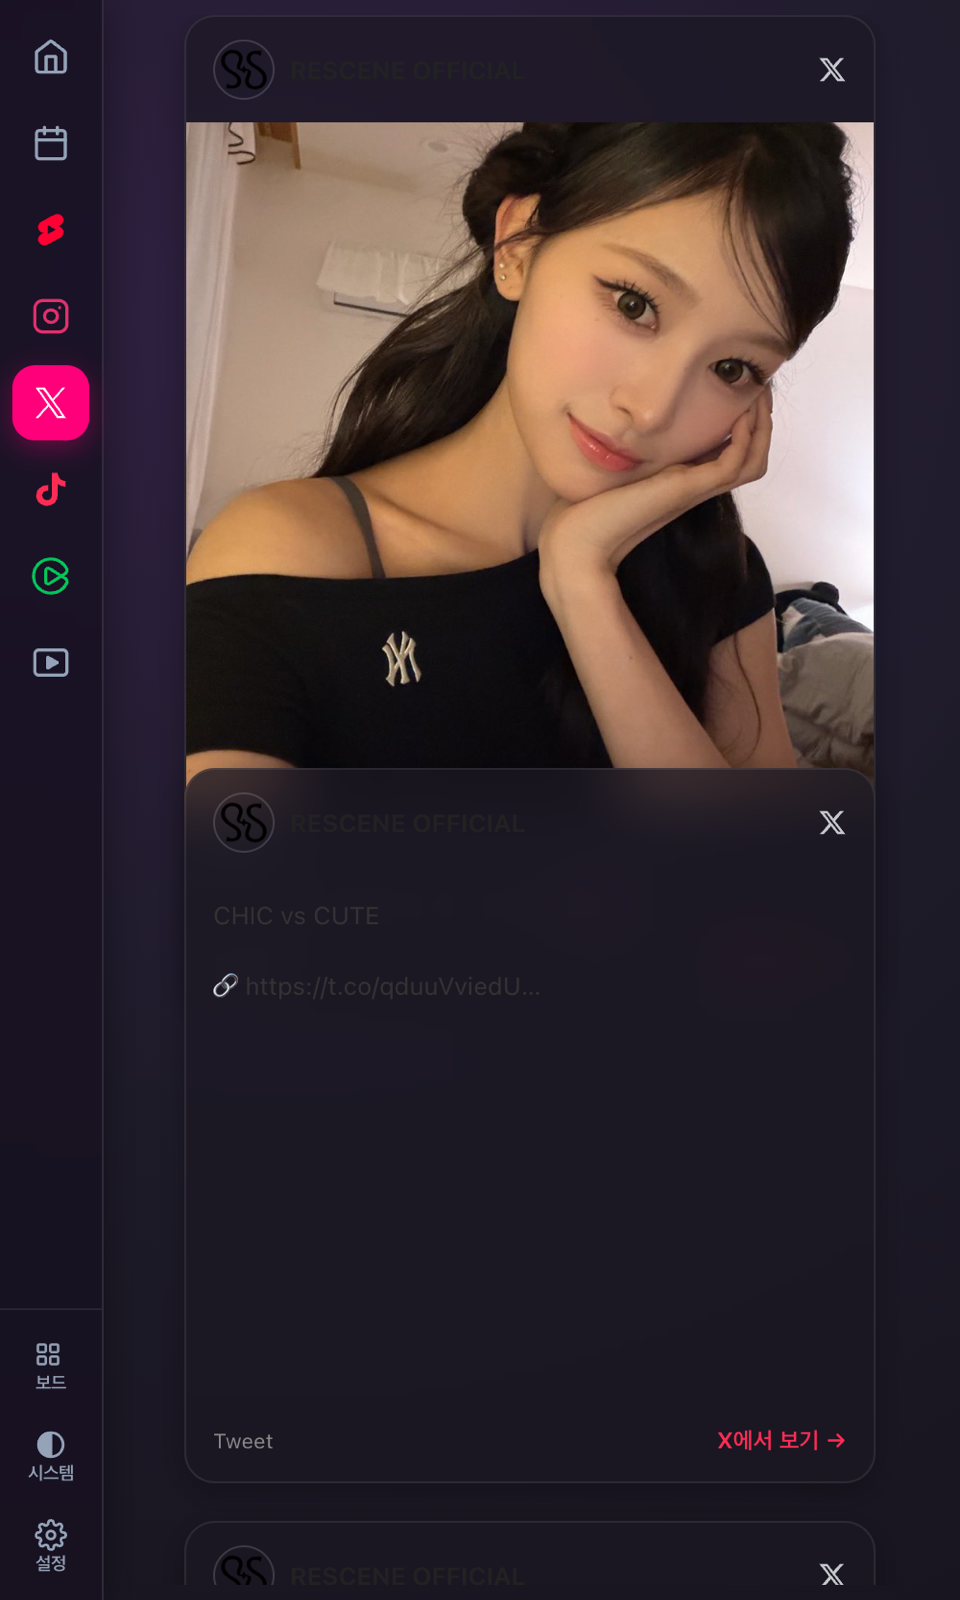
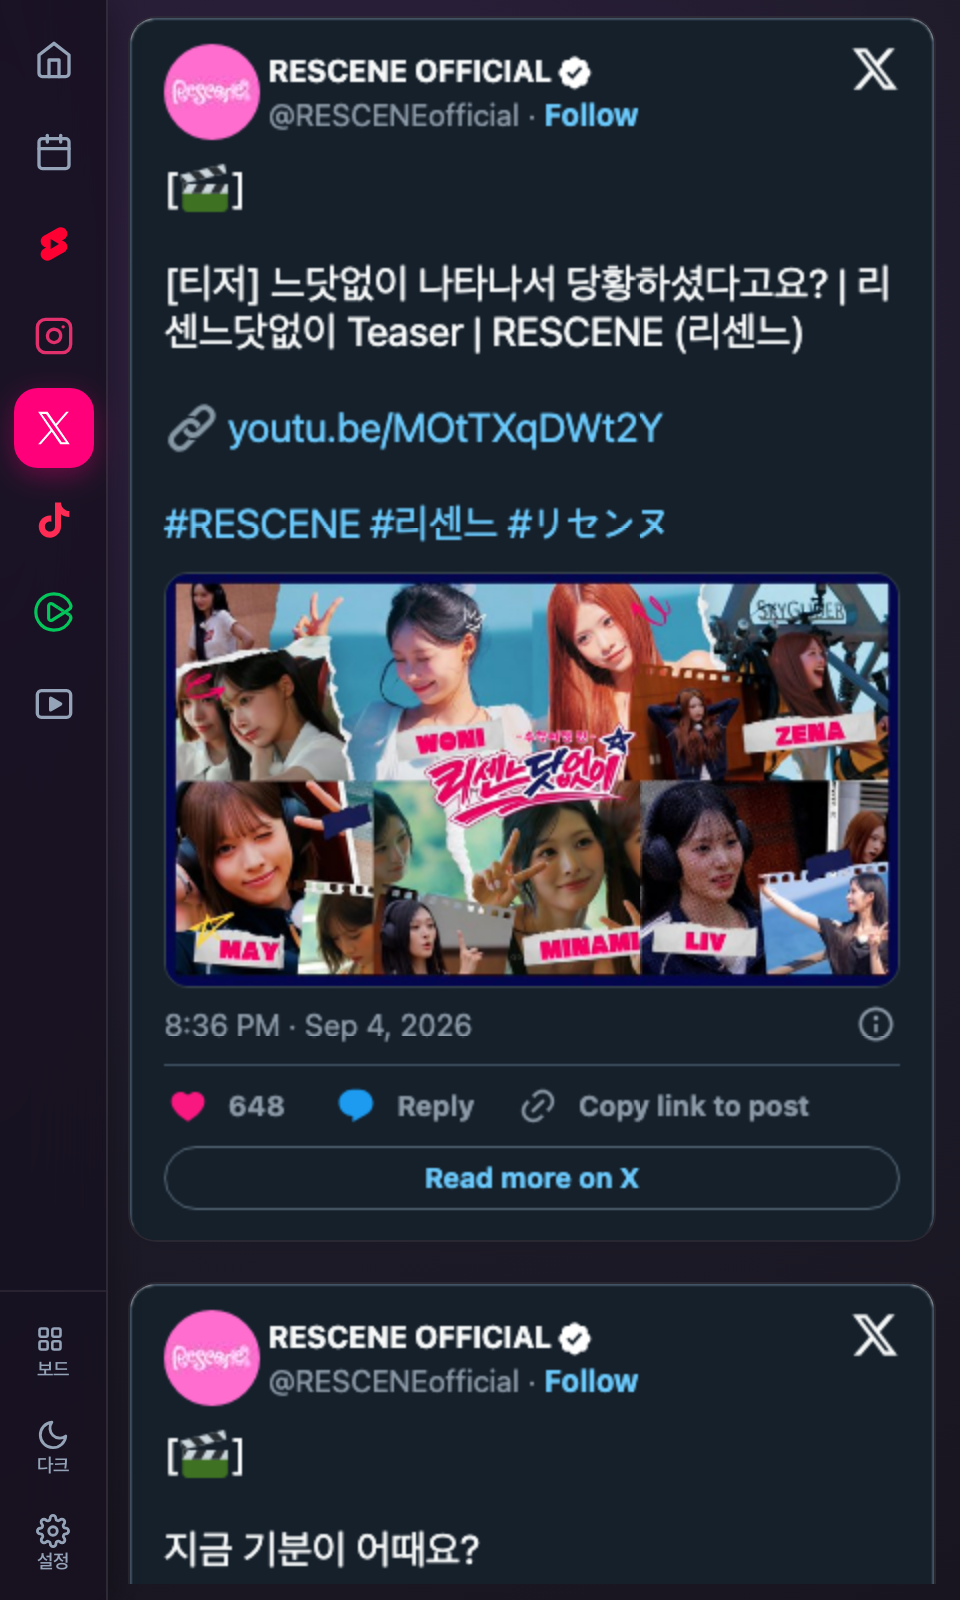
fix: X(트위터) 공식 임베드 위젯 복원 및 겹침 방지 레이아웃 개선

diff --git a/remine-helper/common/common.js b/remine-helper/common/common.js
@@ -1985,50 +1985,12 @@ export function renderXEmbeds(container, feeds = [], isDark = false) {
     const fragment = document.createDocumentFragment();
     nextBatch.forEach(feed => {
       const tweetId = feed.id;
-      const fullLink = feed.link || `https://twitter.com/RESCENEofficial/status/${tweetId}`;
+      if (!tweetId) return;
 
-      // 텍스트나 썸네일이 있는 경우 초경량 네이티브 카드 렌더링
-      if (feed.desc || feed.thumb) {
-        const card = document.createElement("a");
-        card.className = "sns-native-card";
-        card.href = fullLink;
-        card.target = "_blank";
-        card.rel = "noopener noreferrer";
-
-        const descText = feed.desc ? escapeHtml(feed.desc) : "";
-        card.innerHTML = `
-          <div class="sns-card-header">
-            <div class="sns-card-author">
-              <img src="icons/rescene-logo.png" alt="RESCENE" class="sns-card-avatar" />
-              <span class="sns-card-author-name">RESCENE OFFICIAL</span>
-            </div>
-            <div class="sns-card-badge" title="X (Twitter)">
-              <svg width="15" height="15" viewBox="0 0 24 24" fill="currentColor">
-                <path d="M18.244 2.25h3.308l-7.227 8.26 8.502 11.24H16.17l-5.214-6.817L4.99 21.75H1.68l7.73-8.835L1.254 2.25H8.08l4.713 6.231zm-1.161 17.52h1.833L7.084 4.126H5.117z"/>
-              </svg>
-            </div>
-          </div>
-          ${feed.thumb ? `
-            <div class="sns-card-image-wrap">
-              <img src="${feed.thumb}" alt="X Media" class="sns-card-image" loading="lazy" />
-            </div>
-          ` : ''}
-          <div class="sns-card-body">
-            ${descText ? `<p class="sns-card-text">${descText}</p>` : ''}
-            <div class="sns-card-footer">
-              <span>Tweet</span>
-              <span class="sns-card-action-link">X에서 보기 →</span>
-            </div>
-          </div>
-        `;
-        fragment.appendChild(card);
-      } else {
-        // 썸네일/텍스트 없는 경우 기존 iframe 임베드 폴백
-        const wrapper = document.createElement("div");
-        wrapper.className = "feed-iframe-wrapper";
-        wrapper.innerHTML = "<iframe credentialless src=\"https://platform.twitter.com/embed/Tweet.html?id=" + tweetId + "&theme=" + themeStr + "\" style=\"width: 100%; height: 250px; transition: height 0.3s ease;\" frameborder=\"0\" scrolling=\"no\" loading=\"lazy\"></iframe>";
-        fragment.appendChild(wrapper);
-      }
+      const wrapper = document.createElement("div");
+      wrapper.className = "feed-iframe-wrapper tweet-embed-wrapper";
+      wrapper.innerHTML = `<iframe credentialless src="https://platform.twitter.com/embed/Tweet.html?id=${tweetId}&theme=${themeStr}" style="width: 100%; height: 250px; transition: height 0.25s ease;" frameborder="0" scrolling="no" loading="lazy"></iframe>`;
+      fragment.appendChild(wrapper);
     });
 
     container.appendChild(fragment);
@@ -2639,12 +2601,16 @@ export function setupIframeAutoHeight() {
       if (data && data['twttr.embed'] && data['twttr.embed'].method === 'twttr.private.resize') {
         const params = data['twttr.embed'].params;
         const height = Array.isArray(params) && params.length > 0 ? params[0].height : params.height;
-        if (height) {
+        if (height && typeof height === 'number' && height > 50) {
           const iframes = document.querySelectorAll('.feed-iframe-wrapper iframe, .modal-embed-card iframe');
           for (let iframe of iframes) {
             if (iframe.contentWindow === event.source) {
               iframe.style.height = `${height}px`;
               iframe.style.minHeight = `${height}px`;
+              if (iframe.parentElement) {
+                iframe.parentElement.style.height = `${height}px`;
+                iframe.parentElement.style.minHeight = `${height}px`;
+              }
               break;
             }
           }

diff --git a/remine-helper/common/common.css b/remine-helper/common/common.css
@@ -1951,7 +1951,6 @@ img.custom-logo {
 }
 
 #instaFeedList,
-#xFeedList,
 #tiktokFeedList {
   display: grid;
   grid-template-columns: repeat(auto-fill, minmax(260px, 1fr));
@@ -1961,6 +1960,29 @@ img.custom-logo {
   padding: 0;
   padding-bottom: 30px;
   box-sizing: border-box;
+}
+
+#xFeedList {
+  display: flex;
+  flex-direction: column;
+  align-items: center;
+  gap: 20px;
+  width: 100%;
+  padding: 0;
+  padding-bottom: 30px;
+  box-sizing: border-box;
+}
+
+.feed-iframe-wrapper.tweet-embed-wrapper {
+  width: 100%;
+  max-width: 550px;
+  min-height: 250px;
+  height: auto;
+  border-radius: 14px;
+  overflow: hidden;
+  box-sizing: border-box;
+  flex-shrink: 0;
+  transition: min-height 0.25s ease, height 0.25s ease;
 }
 
 #tiktokFeedList {
